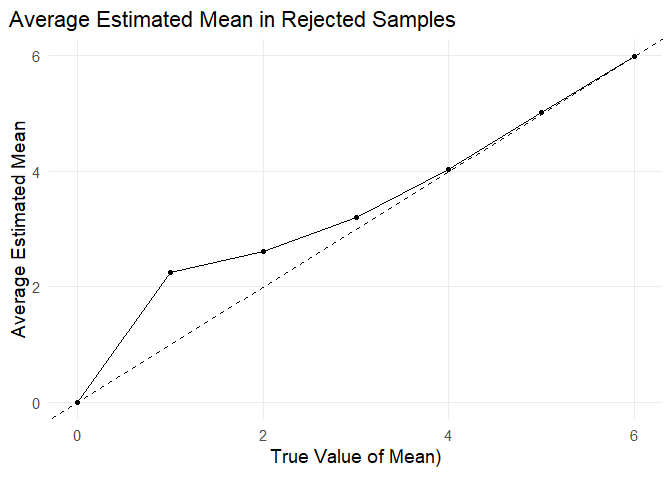
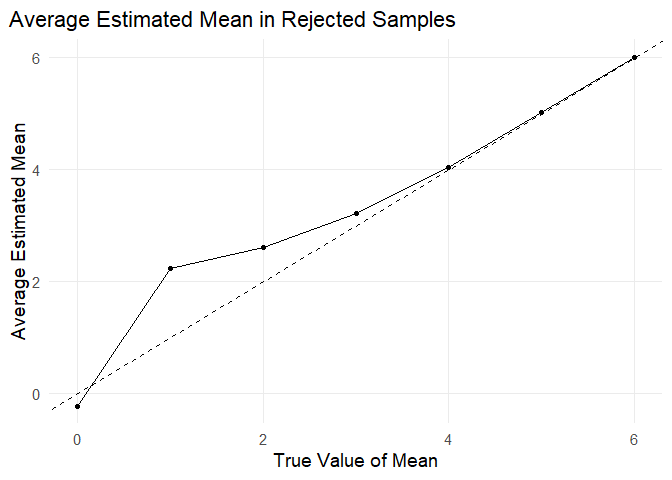
Make the clear comment on problem 2 and clean the data for problem 3

diff --git a/p8105_hw5_th3147.md b/p8105_hw5_th3147.md
@@ -160,8 +160,11 @@ power_plot <- ggplot(power_curve_data, aes(x = true_mu_value, y = power)) +
 power_plot
 ```
 
-![](p8105_hw5_th3147_files/figure-gfm/unnamed-chunk-7-1.png)<!-- --> \*
-When the effect size increases, the power of the test also increases.
+![](p8105_hw5_th3147_files/figure-gfm/unnamed-chunk-7-1.png)<!-- -->
+
+- When the effect size increases, the power of the test also increases.
+  However, once the effect size reaches 4, the power values all appear
+  to be the same.
 
 ## Draw the second plot
 
@@ -196,7 +199,7 @@ conditional_estimate_plot <-
   geom_line() +
   geom_point() +
   geom_abline(intercept = 0, slope = 1, linetype = "dashed", color = "black") +
-  scale_x_continuous(name = expression("True Value of Mean)")) +
+  scale_x_continuous(name = expression("True Value of Mean")) +
   scale_y_continuous(name = "Average Estimated Mean") +
   labs(
     title = "Average Estimated Mean in Rejected Samples") +
@@ -211,11 +214,17 @@ conditional_estimate_plot
 
 ![](p8105_hw5_th3147_files/figure-gfm/unnamed-chunk-9-1.png)<!-- -->
 
-- No, it did not match, especially when the effect sizes were small.
+- No, it did not match. The plot shows that when a study is small mu,
+  the estimates that manage to achieve significance are exaggerated.
 
 - The bias occurs because we are only averaging the estimates from the
   simulations where a specific condition was met: the null hypothesis
-  was rejected.
+  was rejected. In other words, When the true mu is small, the power is
+  low. This means most of your 5000 simulated samples did not reject the
+  null hypothesis. To be more specific, at mu=0, the only samples
+  rejected are the rare, extreme outliers that resulted in a large
+  sample mean by chance. Averaging only these outliers guarantees the
+  estimate will be far above 0.
 
 # Problem 3
 
@@ -234,12 +243,15 @@ homicide_data <- read_csv("./homicide-data.csv")
     ## ℹ Use `spec()` to retrieve the full column specification for this data.
     ## ℹ Specify the column types or set `show_col_types = FALSE` to quiet this message.
 
-## Exclude city where there is no information on state
+## Clean the data
 
 ``` r
 homicide_data_filtered <- 
-  homicide_data |> 
-  filter(uid != "Pit-000050")
+    homicide_data |> 
+    janitor::clean_names() |> 
+    mutate(
+    state = str_replace(state, "wI", "WI")
+  ) 
 ```
 
 ## Create a new variable
@@ -264,7 +276,8 @@ homicide_summary <-
     total_homicides = n()
   ) |> 
   ungroup() |> 
-  arrange(desc(total_homicides))
+  arrange(desc(total_homicides)) |> 
+  filter(city_state != "Tulsa, AL")
 
 head(homicide_summary,3)
 ```
@@ -357,18 +370,11 @@ city_prop_estimates_tidy <-
     conf_high
   ) |> 
   arrange(desc(total_homicides))
-```
 
-    ## Warning: There was 1 warning in `mutate()`.
-    ## ℹ In argument: `tidy_results = purrr::map2(...)`.
-    ## Caused by warning in `prop.test()`:
-    ## ! Chi-squared approximation may be incorrect
-
-``` r
 city_prop_estimates_tidy
 ```
 
-    ## # A tibble: 51 × 6
+    ## # A tibble: 50 × 6
     ##    city_state       total_homicides homicides_unsolved prop_estimate conf_low
     ##    <chr>                      <int>              <int>         <dbl>    <dbl>
     ##  1 Chicago, IL                 5535               4073         0.736    0.724
@@ -381,7 +387,7 @@ city_prop_estimates_tidy
     ##  8 Dallas, TX                  1567                754         0.481    0.456
     ##  9 Memphis, TN                 1514                483         0.319    0.296
     ## 10 New Orleans, LA             1434                930         0.649    0.623
-    ## # ℹ 41 more rows
+    ## # ℹ 40 more rows
     ## # ℹ 1 more variable: conf_high <dbl>
 
 ## Make a plot
